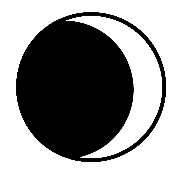
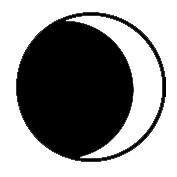
Fix dark mode

diff --git a/magi-knights-awakening/src/components/HPContainer.vue b/magi-knights-awakening/src/components/HPContainer.vue
@@ -3,48 +3,6 @@ import { useSheetStore } from '@/stores';
 const sheet = useSheetStore();
 </script>
 
-<!-- <template>
-<div class="hp-container">
-  <img src="@/assets/sword.png" alt="magic sword">
-  <div class="hp-row">
-    <div class="hp-cell left-input">
-      <label for="curr-hp">HP</label>
-      <input type="number" v-model="sheet.hp.current" id="curr-hp">
-    </div>
-    <div class="hp-cell left-input">
-      <label for="temp-hp">Temp HP</label>
-      <input type="number" v-model="sheet.hp.temp" id="temp-hp">
-    </div>
-    <div class="hp-cell right-input">
-      <label for="max-hp">Max HP</label>
-      <input id="max-hp">{{ sheet.hp.max }}</input>
-    </div>
-  </div>
-  <div class="hp-row left-input">
-    <div class="hp-cell double-cell">
-      <label for="curr-mp">MP</label>
-      <input type="number" v-model="sheet.mp.current" id="curr-mp">
-    </div>
-    <div class="hp-cell right-input">
-      <label for="max-mp">Max MP</label>
-      <input id="max-mp">{{ sheet.mp.max }}</input>
-    </div>
-  </div>
-
-
-  <div class="hp-row left-input">
-    <div class="hp-cell double-cell">
-      <label for="curr-shp">SHP</label>
-      <input type="number" v-model="sheet.shp.current" id="curr-shp">
-    </div>
-    <div class="hp-cell right-input">
-      <label for="max-shp">Max SHP</label>
-      <input id="max-shp">{{ sheet.shp.max }}</input>
-    </div>
-  </div>
-</div>
-</template> -->
-
 <template>
   <div class="hp-container">
     <img src="@/assets/sword.png" alt="magic sword">
@@ -162,11 +120,13 @@ const sheet = useSheetStore();
 .left-input input{
   text-align: left; /* Left-justifies the text */
   vertical-align: bottom; /* Aligns the input to the bottom */
+  color: var(--color);
 }
 
 .right-input input{
   text-align: right; /* Left-justifies the text */
   vertical-align: bottom; /* Aligns the input to the bottom */
+  color: var(--color);
 }
 
 .double-cell {

diff --git a/magi-knights-awakening/src/rollTemplates/styles/common.scss b/magi-knights-awakening/src/rollTemplates/styles/common.scss
@@ -24,7 +24,7 @@ rolltemplate.magiknight-template {
   --borderColor: var(--lm-borderColor);
 
   --lm-header-blue: #153859;
-  --dm-header-blue: #3337f3;
+  --dm-header-blue: #cfcffc;
   --header-blue: var(--lm-header-blue);
 
   --error-red: #dc0508;
@@ -36,6 +36,11 @@ rolltemplate.magiknight-template {
   --skill-gap: 0.22em;
 
   /* images */
+  --header-image-lm: url('./magiKnight-header.png');
+  --header-image-dm: url('./magiKnight-header-dm.png');
+
+  --header-image: var(var(--header-image-lm));
+
   --swordImage: url('./sword.png');
   --abilityImage: url('./ability-circle.png');
   --diamondImage: url('./diamond.png');
@@ -79,7 +84,7 @@ rolltemplate.magiknight-template {
   color: black;
 
   .header {
-    background-color: var(--header-blue);;
+    background-color: var(--header-blue);
     text-align: center;
     padding: 0.25rem 0.5rem;
     border-radius: 0.5rem 0.5rem 0 0;

diff --git a/magi-knights-awakening/src/components/MasterHeader.vue b/magi-knights-awakening/src/components/MasterHeader.vue
@@ -6,7 +6,7 @@ const meta = useMetaStore();
 
 <template>
   <header class="master-header">
-    <img src="@/assets/magiKnight-header.png" alt="magi-knight logo" class="logo">
+    <div class="logo" aria-label="magi-knight logo"></div>
     <div class="flex-box tiny-gap flex-column character-name">
       <input type="text" class="underline" v-model="meta.name">
       <span class="capitalize">magi-knight name</span>
@@ -40,7 +40,12 @@ const meta = useMetaStore();
       grid-area: logo;
       position:absolute;
       height: 100%;
+      width: 100%;
+      background-size: 80% 100%;
+      background-repeat: no-repeat;
+      background-position: 50% center;
       place-self: start center;
+      background-image: var(--header-image);
     }
     > :nth-child(odd){
       align-items: end;

diff --git a/magi-knights-awakening/src/assets/variables.css b/magi-knights-awakening/src/assets/variables.css
@@ -16,7 +16,7 @@ html{
   --borderColor: var(--lm-borderColor);
 
   --lm-header-blue: #153859;
-  --dm-header-blue: #3337f3;
+  --dm-header-blue: #cfcffc;
   --header-blue: var(--lm-header-blue);
 
   --error-red: #dc0508;
@@ -27,6 +27,11 @@ html{
   --big-gap: calc(var(--gap) * 2);
 
   /* images */
+  --header-image-lm: url('./magiKnight-header.png');
+  --header-image-dm: url('./magiKnight-header-dm.png');
+
+  --header-image: var(--header-image-lm);
+
   --swordImage: url('./sword.png');
   --abilityImage: url('./ability-circle.png');
   --diamondImage: url('./diamond.png');
@@ -69,4 +74,6 @@ html.dark{
   --color: var(--dm-color);
   --borderColor: var(--dm-borderColor);
   --header-blue: var(--dm-header-blue);
+
+  --header-image: var(--header-image-dm);
 }

diff --git a/magi-knights-awakening/src/components/BackgroundItems.vue b/magi-knights-awakening/src/components/BackgroundItems.vue
@@ -66,6 +66,8 @@ const backstoryItems = {
     height: 100%;
     min-height: 10cap;
     box-sizing: border-box;
+    background-color: var(--masterBack);
+    color: var(--color);
 }
 
 .backstory{
@@ -85,6 +87,8 @@ const backstoryItems = {
     height: 100%;
     min-height: 20cap;
     box-sizing: border-box;
+    background-color: var(--masterBack);
+    color: var(--color);
 }
 
 </style>

diff --git a/magi-knights-awakening/src/components/Skill.vue b/magi-knights-awakening/src/components/Skill.vue
@@ -53,6 +53,7 @@ const resetToDefault = () => {
     align-items: center;
     .skill-name{
       text-transform: capitalize;
+      color: var(--color);
     }
     select{
       text-transform: capitalize;
@@ -73,6 +74,7 @@ const resetToDefault = () => {
     .skill-value{
       width: 3ch;
       text-align: center;
+      color: var(--color);
     }
   }
 </style>

diff --git a/magi-knights-awakening/src/assets/main.css b/magi-knights-awakening/src/assets/main.css
@@ -42,6 +42,8 @@ label:has(button,a){
 }
 select{
   border: 0;
+  background-color: var(--masterBack);
+  color: var(--color);
 }
 input::-webkit-inner-spin-button,
 input::-webkit-outer-spin-button{
@@ -75,6 +77,7 @@ h3,h4,h5{
 }
 .underline{
   border-bottom: 1px solid var(--borderColor);
+  color: var(--color);
 }
 .grid{
   display: grid;

diff --git a/magi-knights-awakening/src/components/SplitMods.vue b/magi-knights-awakening/src/components/SplitMods.vue
@@ -80,8 +80,11 @@
     }
   }
 }
+button:enabled{
+  color: var(--color);
+}
 button:disabled {
-  color: black;  // Override the disabled button text color to black
+  color: var(--color);
   cursor: default;
 }
 </style>

diff --git a/magi-knights-awakening/src/components/AbilityScore.vue b/magi-knights-awakening/src/components/AbilityScore.vue
@@ -47,6 +47,7 @@
   .inner-ability-circle,
   .ability-score{
     margin-bottom:10px;
+    color: var(--lm-color);
   }
 }
 </style>

diff --git a/magi-knights-awakening/src/components/CloverDisplay.vue b/magi-knights-awakening/src/components/CloverDisplay.vue
@@ -48,6 +48,7 @@
   > :first-child:last-child{
     width: 100%;
     height: 100%;
+    color: var(--color);
   }
 }
 .clover{
